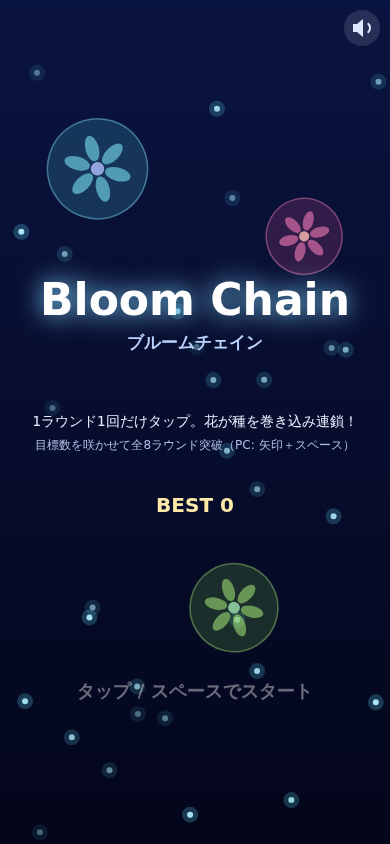
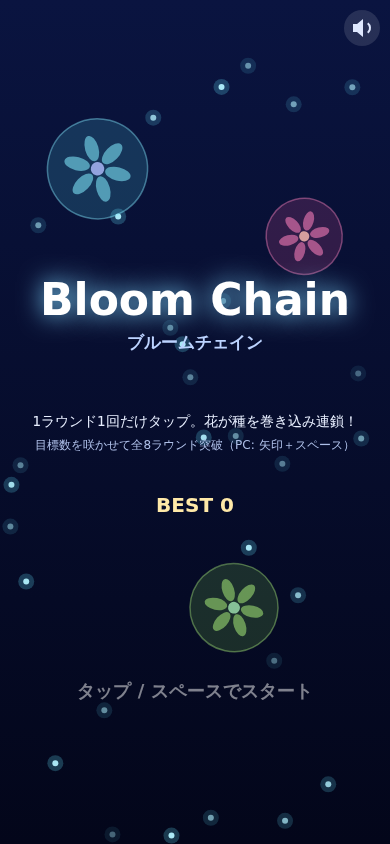
arcade: 001 Bloom Chain (ready, fun 7/10)
Claude-Session: https://claude.ai/code/session_01C9PKe73xnsQCPuibChcCfd

diff --git a/arcade/games/001-bloom-chain/index.html b/arcade/games/001-bloom-chain/index.html
@@ -94,7 +94,7 @@ const cursor = { x: 195, y: 422, visible: false };
 const keys = {};
 let ripples = [];
 
-function baseR() { return Math.max(26, Math.min(W, H) * 0.085); }
+function baseR() { return Math.max(30, Math.sqrt(Math.max(1, (W - 28) * (H - 84))) * 0.14); }
 
 function startGame() {
   round = 0; score = 0; retryLeft = 1; newBest = false;
@@ -151,7 +151,7 @@ function endRound() {
   if (passed) score += roundScore;
 }
 function advance() {
-  if (stateT < 0.7) return;
+  if (stateT < 1.0) return;
   if (state === "result") {
     if (passed) {
       if (round + 1 >= ROUNDS) return finish(true);
@@ -168,6 +168,7 @@ function advance() {
 let cleared = false;
 function finish(c) {
   cleared = c;
+  if (!c && !passed) score += roundScore;
   if (score > best) { best = score; newBest = true; saveBest(best); } else newBest = false;
   state = "over"; stateT = 0;
 }
@@ -418,7 +419,7 @@ function draw() {
     text(`咲いた数 ${bloomedCount} / 目標 ${TARGETS[round]}`, W / 2, py + 84 * S, 16 * S, "#fff", 600);
     text(`連鎖の深さ ${maxDepth} 段`, W / 2, py + 110 * S, 15 * S, "#cfe0ff", 600);
     text(passed ? `+${roundScore} 点${allBloom ? "（2倍）" : ""}` : (retryLeft > 0 ? "おかわりで同じラウンドに再挑戦" : "おかわりは使い切りました"), W / 2, py + 140 * S, 16 * S, "#ffe9a8", 700);
-    if (stateT > 0.7) {
+    if (stateT > 1.0) {
       const label = passed ? (round + 1 >= ROUNDS ? "タップで結果へ" : "タップで次のラウンド") : (retryLeft > 0 ? "タップでやり直す" : "タップで結果へ");
       text(label, W / 2, py + ph - 34 * S, 15 * S, `rgba(255,255,255,${0.6 + Math.sin(time * 4) * 0.35})`, 700);
     }
@@ -430,7 +431,7 @@ function draw() {
     text(`到達 ROUND ${round + 1}`, W / 2, py + 84 * S, 15 * S, "#cfe0ff", 600);
     text(`SCORE ${score}`, W / 2, py + 126 * S, 34 * S, "#ffe9a8", 900);
     text(newBest ? "ベスト更新！" : `BEST ${best}`, W / 2, py + 166 * S, 16 * S, newBest ? "#a8ffb8" : "#cfe0ff", 700);
-    if (stateT > 0.7) {
+    if (stateT > 1.0) {
       ctx.fillStyle = "rgba(127,216,255,0.2)";
       ctx.fillRect(W / 2 - 100 * S, py + ph - 70 * S, 200 * S, 44 * S);
       text("もう一回", W / 2, py + ph - 48 * S, 20 * S, "#ffffff", 800);

diff --git a/arcade/index.html b/arcade/index.html
@@ -1,0 +1,18 @@
+<!doctype html>
+<html lang="ja"><head><meta charset="utf-8">
+<meta name="viewport" content="width=device-width,initial-scale=1">
+<title>ミニゲーム・アーケード</title>
+<style>
+:root{--bg:#f6f3ee;--fg:#22252b;--card:#fff;--muted:#6b6f76;--accent:#c8643b}
+@media (prefers-color-scheme:dark){:root{--bg:#16181c;--fg:#eceae6;--card:#22252b;--muted:#a3a6ab;--accent:#f08a5d}}
+body{margin:0;background:var(--bg);color:var(--fg);font-family:system-ui,sans-serif}
+header{padding:24px 16px 8px}h1{margin:0;font-size:24px}header p{margin:4px 0 0;color:var(--muted)}
+main{display:grid;gap:12px;padding:16px;grid-template-columns:repeat(auto-fill,minmax(220px,1fr))}
+.card{display:block;background:var(--card);border-radius:14px;padding:16px;color:inherit;text-decoration:none;box-shadow:0 1px 3px #0002}
+.card h2{margin:6px 0;font-size:18px}.card p{margin:0 0 8px}.card small{color:var(--muted)}
+.genre{font-size:12px;color:var(--accent);font-weight:600}
+</style></head><body>
+<header><h1>ミニゲーム・アーケード</h1><p>すぐ遊べて、すぐ終わる。1 本</p></header>
+<main>
+<a class="card" href="games/001-bloom-chain/index.html"><span class="genre">連鎖パズル</span><h2>Bloom Chain</h2><p>夜の池に1回だけタップ。咲いた花が光の種を巻き込み、画面いっぱいに連鎖する。</p><small>タップ／クリックで咲かせる。PCは矢印キー・WASDで照準、スペース／Enterで咲かせる。Mでミュート</small></a>
+</main></body></html>

diff --git a/arcade/games/001-bloom-chain/audit.md b/arcade/games/001-bloom-chain/audit.md
@@ -1,0 +1,27 @@
+# 監査結果: 001-bloom-chain（Bloom Chain）
+
+- 監査日: 2026-10-01
+- 機械チェック: `node arcade/bin/qa.mjs` → OK（入力40回 / 19KB / errors・warnings なし）、`python3 arcade/bin/arcade.py check` → OK
+- スクショ: start.png（タイトル・BEST・スタート案内が縦画面に収まる）、play.png（ROUND 2/8、HUD・点線の照準円・下部の操作ヒントが見える）
+
+## 1. 楽しさ
+- **30秒で分かるか: ○** タイトルに「1ラウンド1回だけタップ。花が種を巻き込み連鎖！」、プレイ中は下に「どこか1か所をタップして花を咲かせよう」、HUD に「咲いた n / 目標 m」。やることが1つしかないので迷わない。
+- **気持ちいい瞬間: ○** 連鎖の段が深くなるたびにペンタトニックで音が上がるベル音、10/25/40 個で画面フラッシュと「×N BLOOM!」、連鎖が終わると全部の花の位置がきらっと光る締め、全部咲かせると ALL BLOOM（2倍＋花びらが降る）。plan.md の演出は全部入っている。同時発音数を8に絞っているので音割れもしにくい。
+- **もう一回遊びたくなるか: ○** BEST を localStorage に保存（try/catch あり）、深い段ほど1輪の点が上がるスコア、おかわり1回、ALL BLOOM の2倍。終了画面ですぐ「もう一回」が押せる。
+- 気になる点（軽微）: 花の半径が画面の面積に比例するうえ、種の密度が高いので、序盤は「どこに置いても届く」になりやすく、置き場所を考える手応えは薄め。後半のラウンドの目標（38/56、45/60）で差が出るので、遊びとしては成り立っている。
+
+## 2. 完成度
+- **タイトル → 遊ぶ → 結果 → もう一回: ○** title → aim → chain → result →（次ラウンド／おかわり／終了）→ over → タップで startGame。結果画面では1秒待ってからでないと進めないので、誤タップで飛ばすこともない。
+- **スマホ操作: ○** pointerdown で即反応、`touch-action:none`、長押しメニューも止めている。右上のミュートは 54px 四方で押しやすい。PC は矢印/WASD＋Space/Enter、M でミュート。
+- **はみ出し: ○（縦画面）** 100dvh のキャンバスに DPR 対応、縦の 390×844 ではすべて画面内に収まる。
+- 軽微な指摘: 文字の倍率が `S = min(W/390, H/700, 1.6)` なので、スマホを横にしたとき（例 844×390 で S≈0.56）はタイトルの説明文が約7px、HUD が約8pxまで小さくなり読みにくい。はみ出しはしない。次に直すときは、文字サイズだけ `Math.max(0.8, S)` のように下限を付けるとよい。
+
+## 3. 権利・安全
+- **実在作品との類似: 問題なし** 名前・見た目は、オリジナルの図形（円＋6枚の花びら、光の点）と配色だけ。「タップで連鎖反応」はジャンルとしてよくある仕組みで、特定の作品のキャラクター・ロゴ・名前・見た目は使っていない。
+- **暴力・性的表現: なし** 花が咲くだけの穏やかな内容。フラッシュは白で不透明度25%以下・0.3秒ほどなので刺激は弱い。
+- **外部通信: なし** fetch / XHR / WebSocket / 外部の src・link・http 参照はどれもない。音は Web Audio で生成、フォントもシステムフォント。保存は localStorage のベストスコアだけ。
+
+## 楽しさスコア: 7 / 10
+操作は1タップだけで、そこから音と光の連鎖を眺める気持ちよさがしっかり作られている。序盤は簡単すぎて置き場所を考える余地が少ないことと、横画面で文字が小さくなることで減点した。
+
+VERDICT: PASS

diff --git a/arcade/learnings.md b/arcade/learnings.md
@@ -1,3 +1,4 @@
 # ミニゲーム工場の学び（監査役が追記）
 
 <!-- 形式: - [YYYY-MM-DD 番号] 次回から何をどうするか。30行以内に整理する。 -->
+- [2026-10-01 001] 横画面では文字の倍率に下限（例: 12px相当）を付ける。縦だけでなく横画面（844x390）でも文字が読めるか確かめる。
